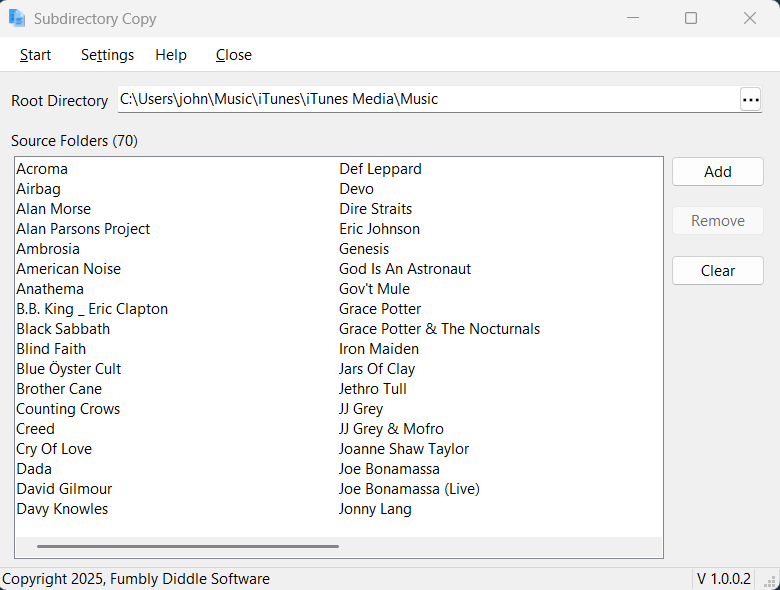
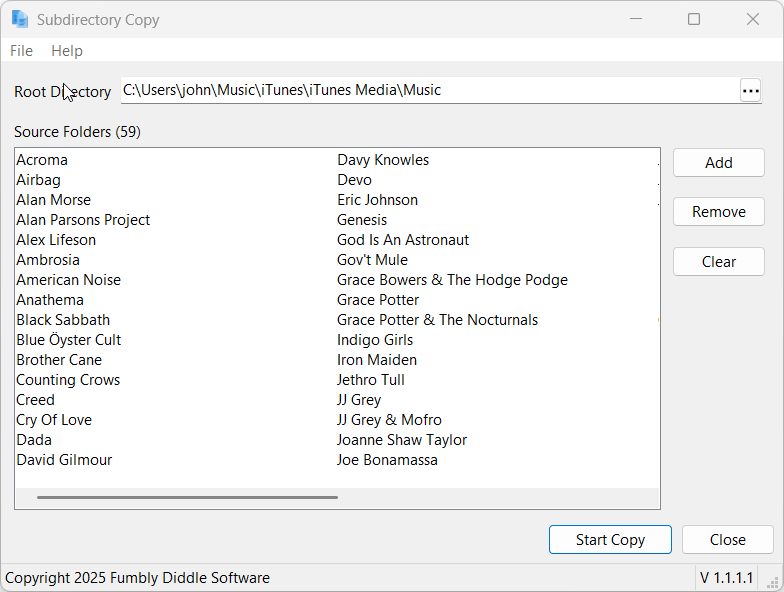
updated images and download link

diff --git a/src/_data/linkdata.js b/src/_data/linkdata.js
@@ -19,7 +19,7 @@ module.exports = {
   ],
   SubCopy: [
     {
-      version: "1.1.1.0",
+      version: "1.1.1.1",
       installerURL: "https://fumblydiddle.b-cdn.net/subcopy/SubCopySetup-1.1.1.exe",
       date: "2025-06-14",
       note: "Added support for projects"
